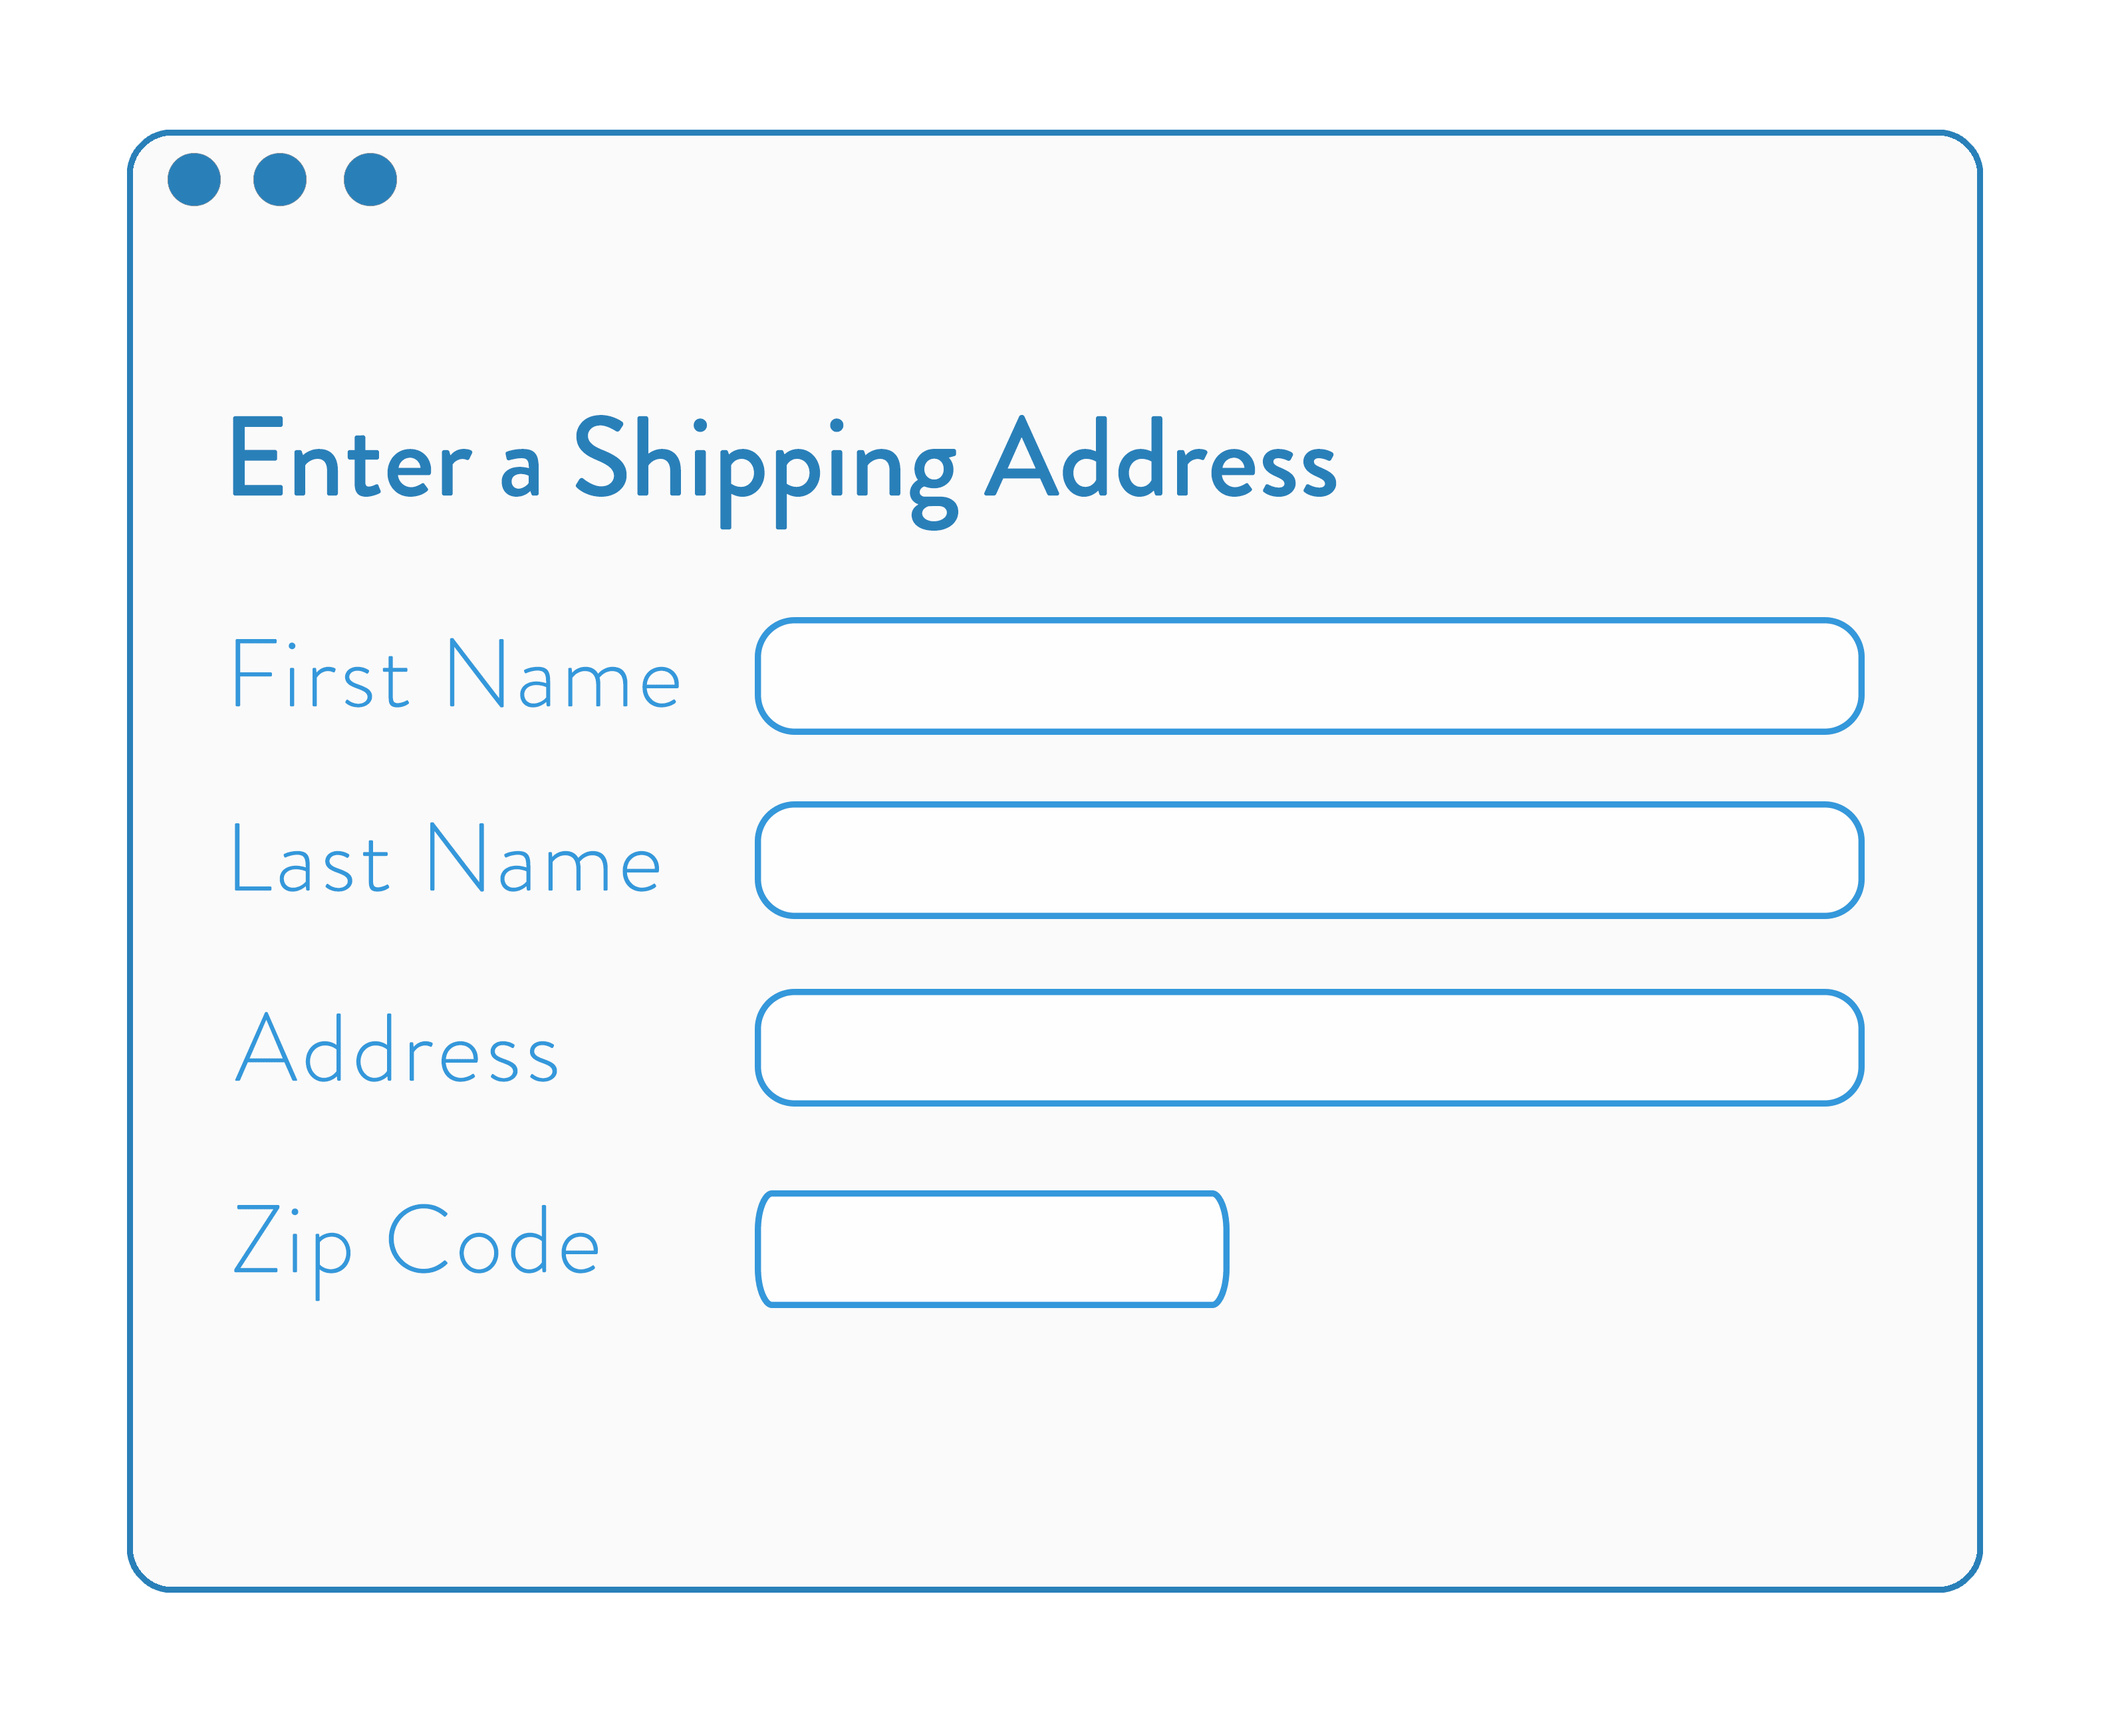
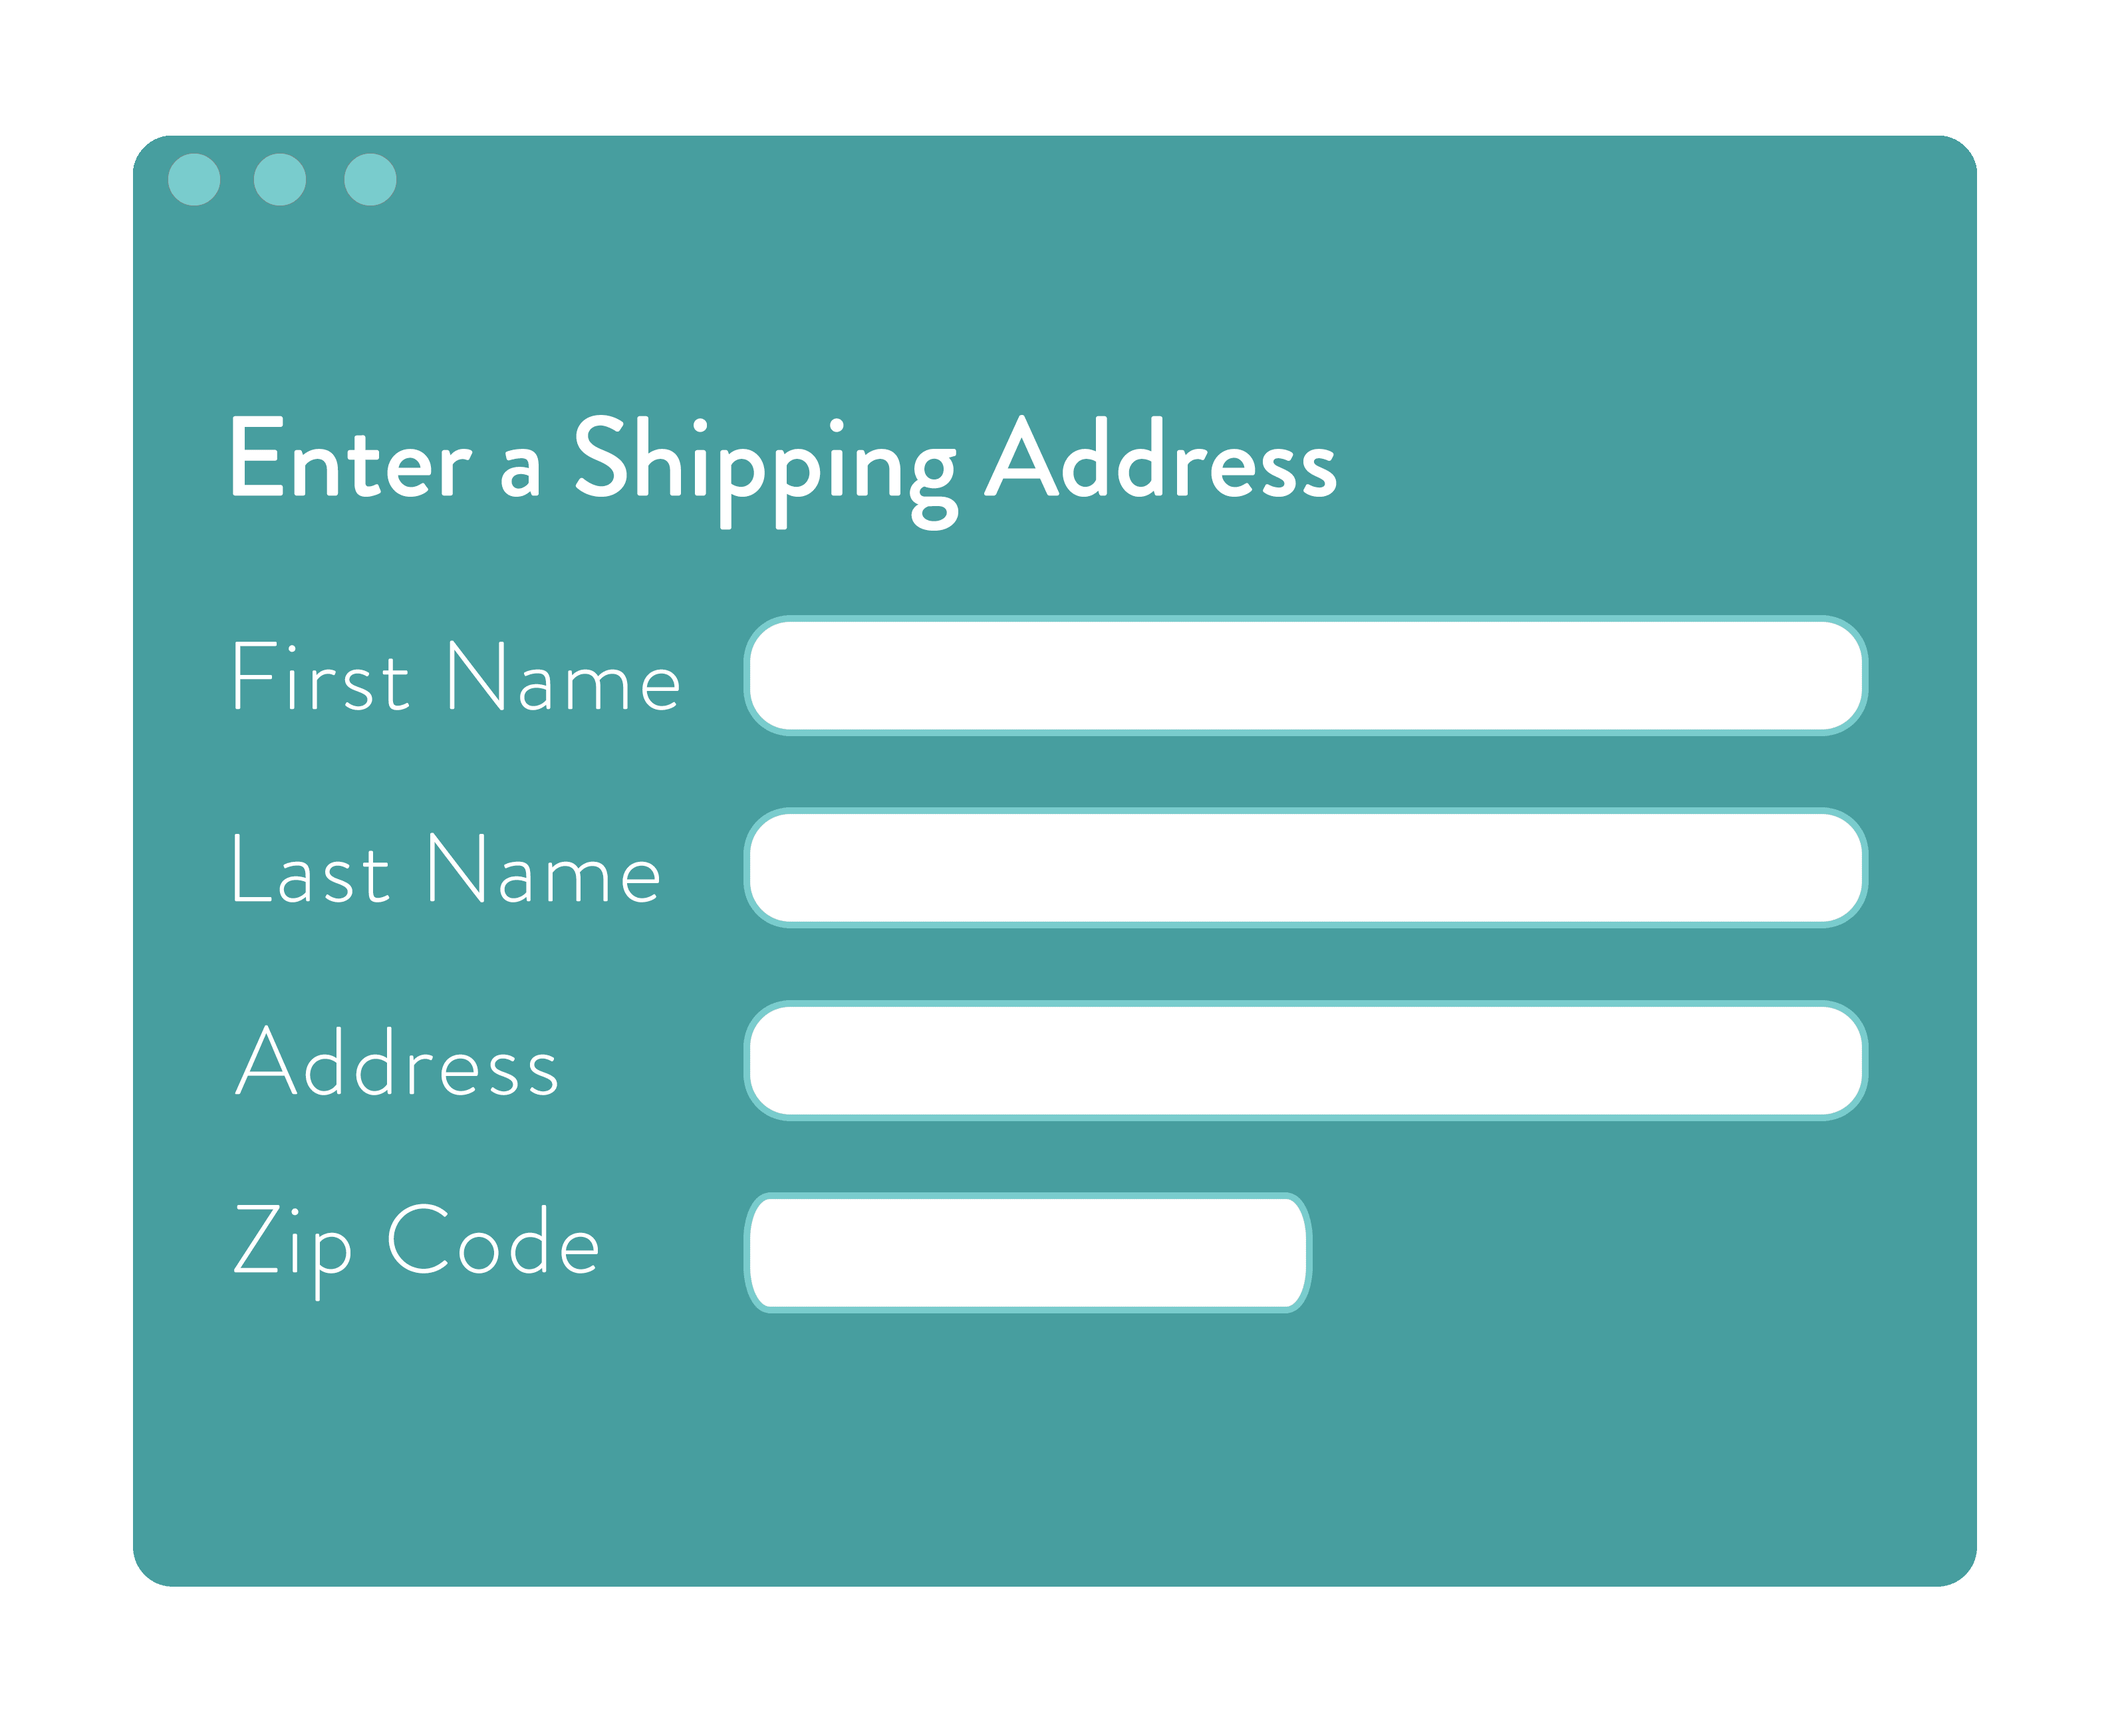
oadj

diff --git a/core/templates/blocbox/basewaitlist.html b/core/templates/blocbox/basewaitlist.html
@@ -41,7 +41,7 @@ it provides the basic color block layout and populations each of the dividers wi
         <br>
 
         <div class="col-xs-12 col-md-4 lightweight textdecorationblue nopadding">
-            <img src="{% static 'blocbox/images/homesearch-whited2.png' %}" height="250" width="250">
+            <img src="{% static 'blocbox/images/homesearch.png' %}" height="250" width="250">
             <h4 class="darkbluegreentext">FIND A BLOCBOX HOST</h4>
             <div class="col-xs-12 col-md-10 col-md-offset-1">
                 <p>Search to determine a conveniently located and verified Blocbox Host and connect</p>
@@ -50,7 +50,7 @@ it provides the basic color block layout and populations each of the dividers wi
 
         <div class="col-xs-12 col-md-4 lightweight nopadding">
             <!--adding nopaddingsides so this image doesn't create unwanted margin in mobile -->
-            <img src="{% static 'blocbox/images/Shipping-Entry-whited.png' %}" height="245" width="290" />
+            <img src="{% static 'blocbox/images/Shipping-Entry.png' %}" height="245" width="290" />
             <h4 class="darkbluegreentext">SHIP TO YOUR BOX</h4>
             <div class="col-xs-12 col-md-10 col-md-offset-1">
                 <p>As you complete your order, enter the address of your connected Blocbox host</p>
@@ -58,7 +58,7 @@ it provides the basic color block layout and populations each of the dividers wi
         </div>
 
         <div class="col-xs-12 col-md-4 lightweight nopadding">
-            <img src="{% static 'blocbox/images/pickup-whited.png' %}" height="250" width="250" />
+            <img src="{% static 'blocbox/images/pickup.png' %}" height="250" width="250" />
             <h4 class="darkbluegreentext">PICK IT UP NEARBY, WHENEVER</h4>
             <div class="col-xs-12 col-sm-10 col-sm-offset-1 col-md-10 col-md-offset-1">
                 <p>Blocbox will notify you of your package's successful receipt. You can then suggest a time you will pick it up, or you can wait till it's convenient for you.</p>
